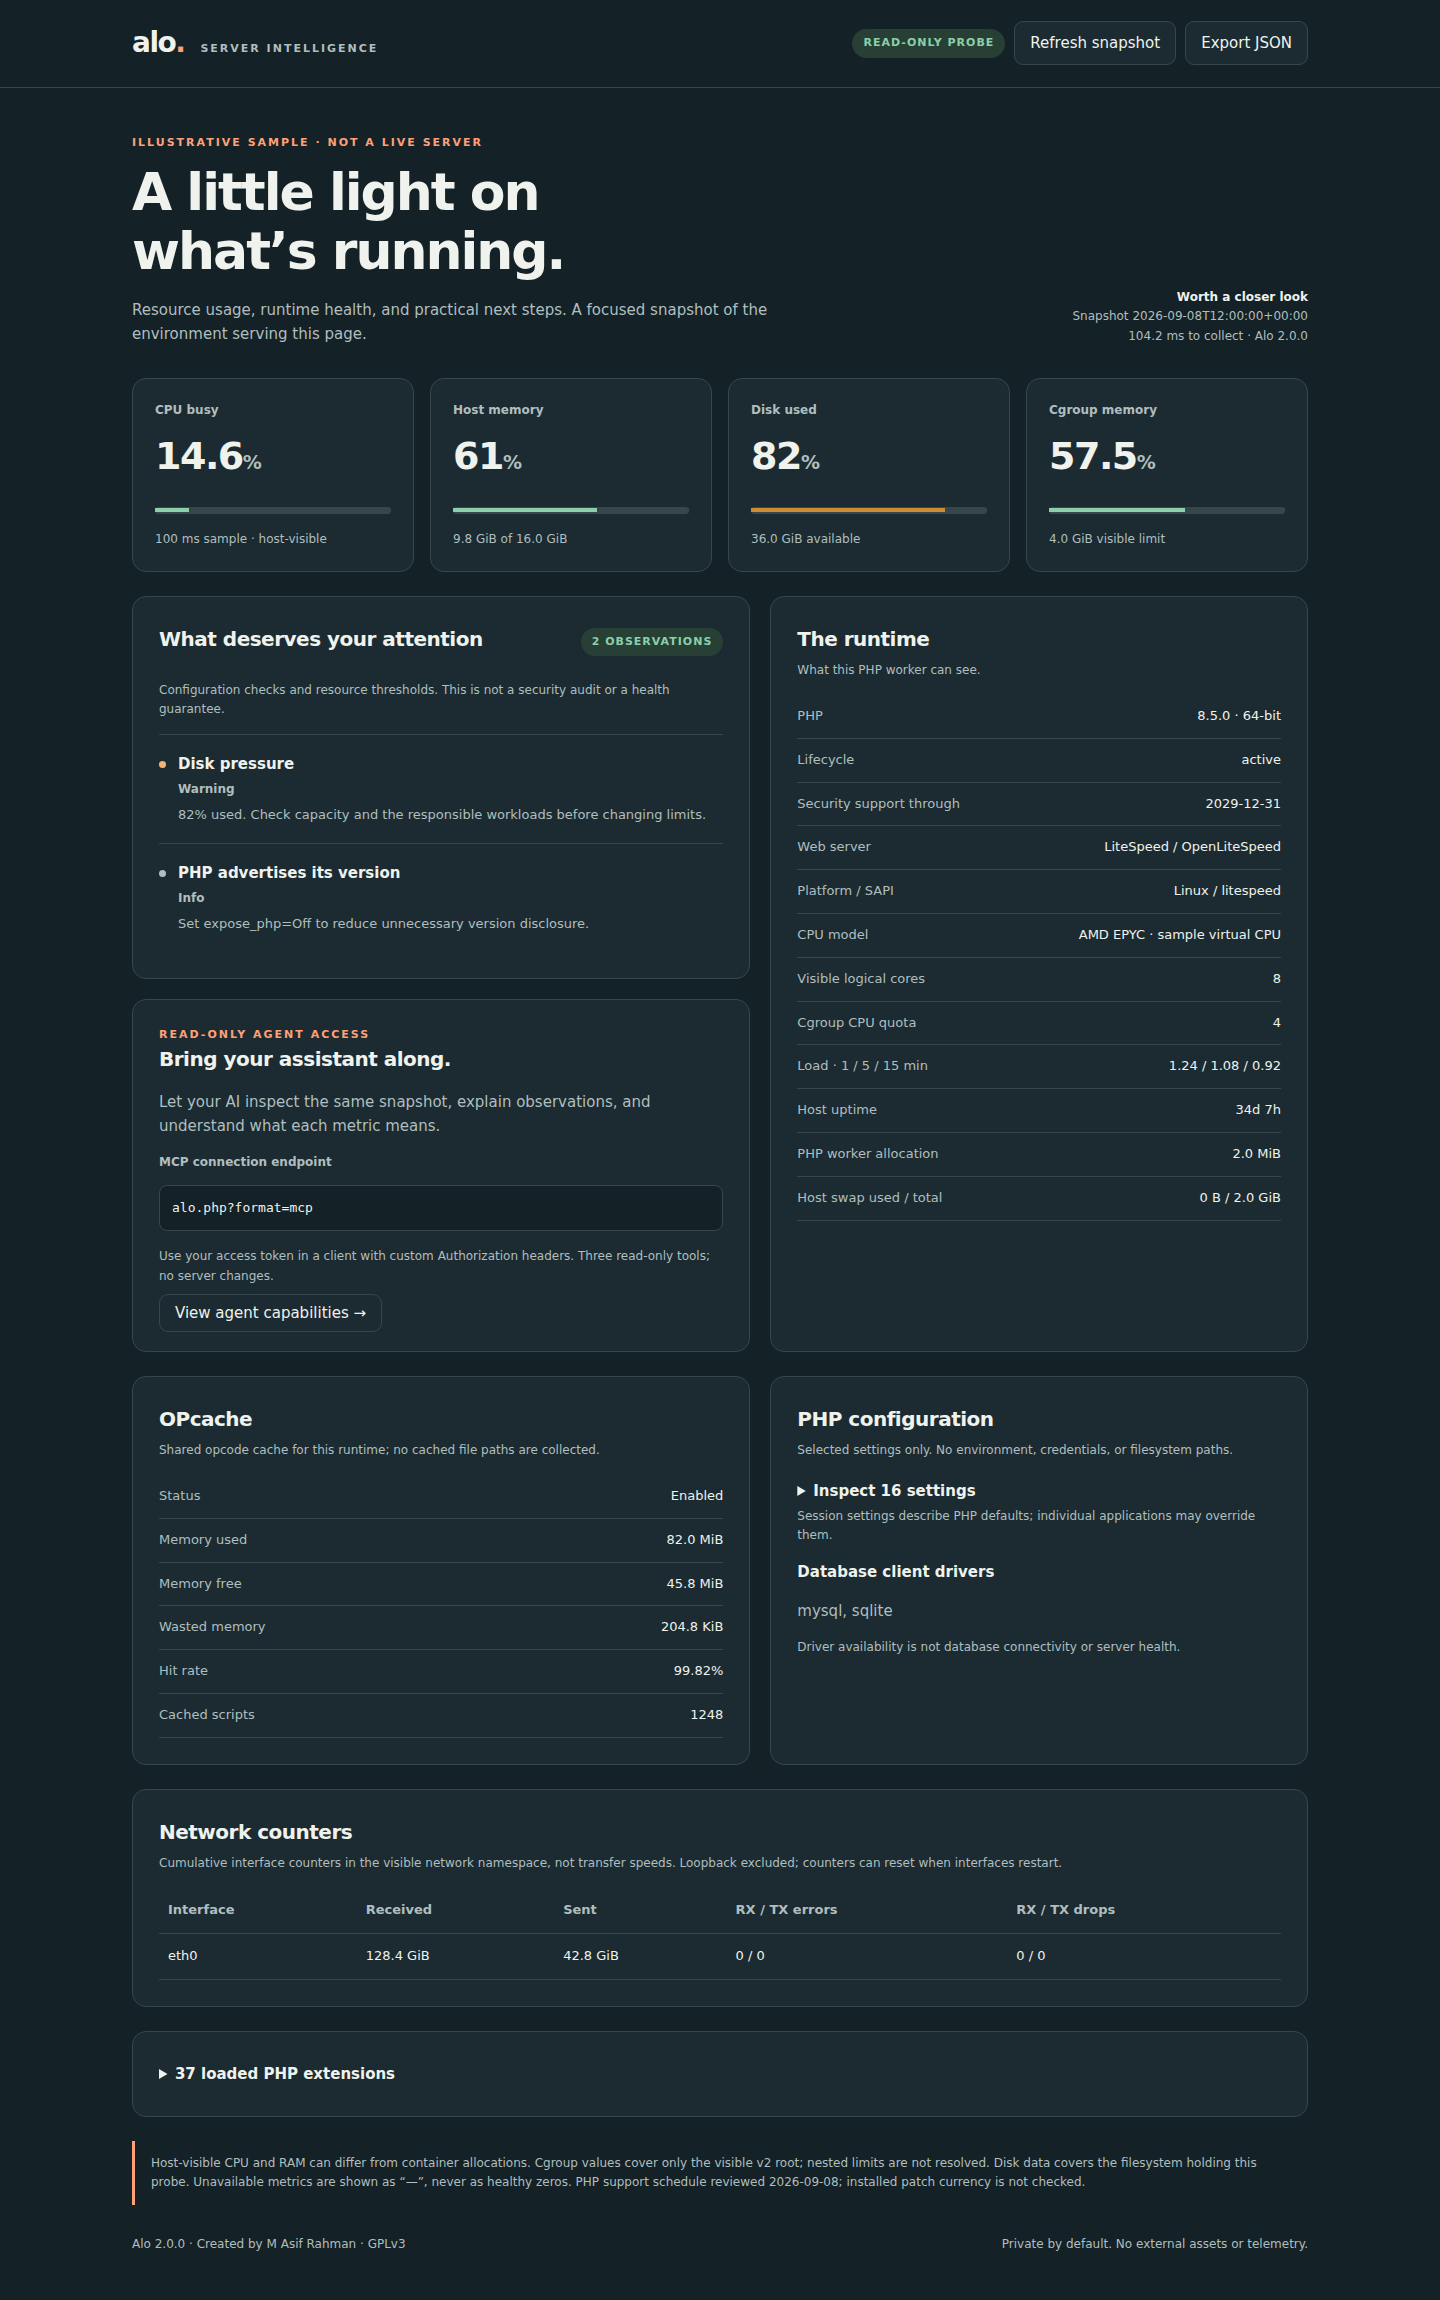
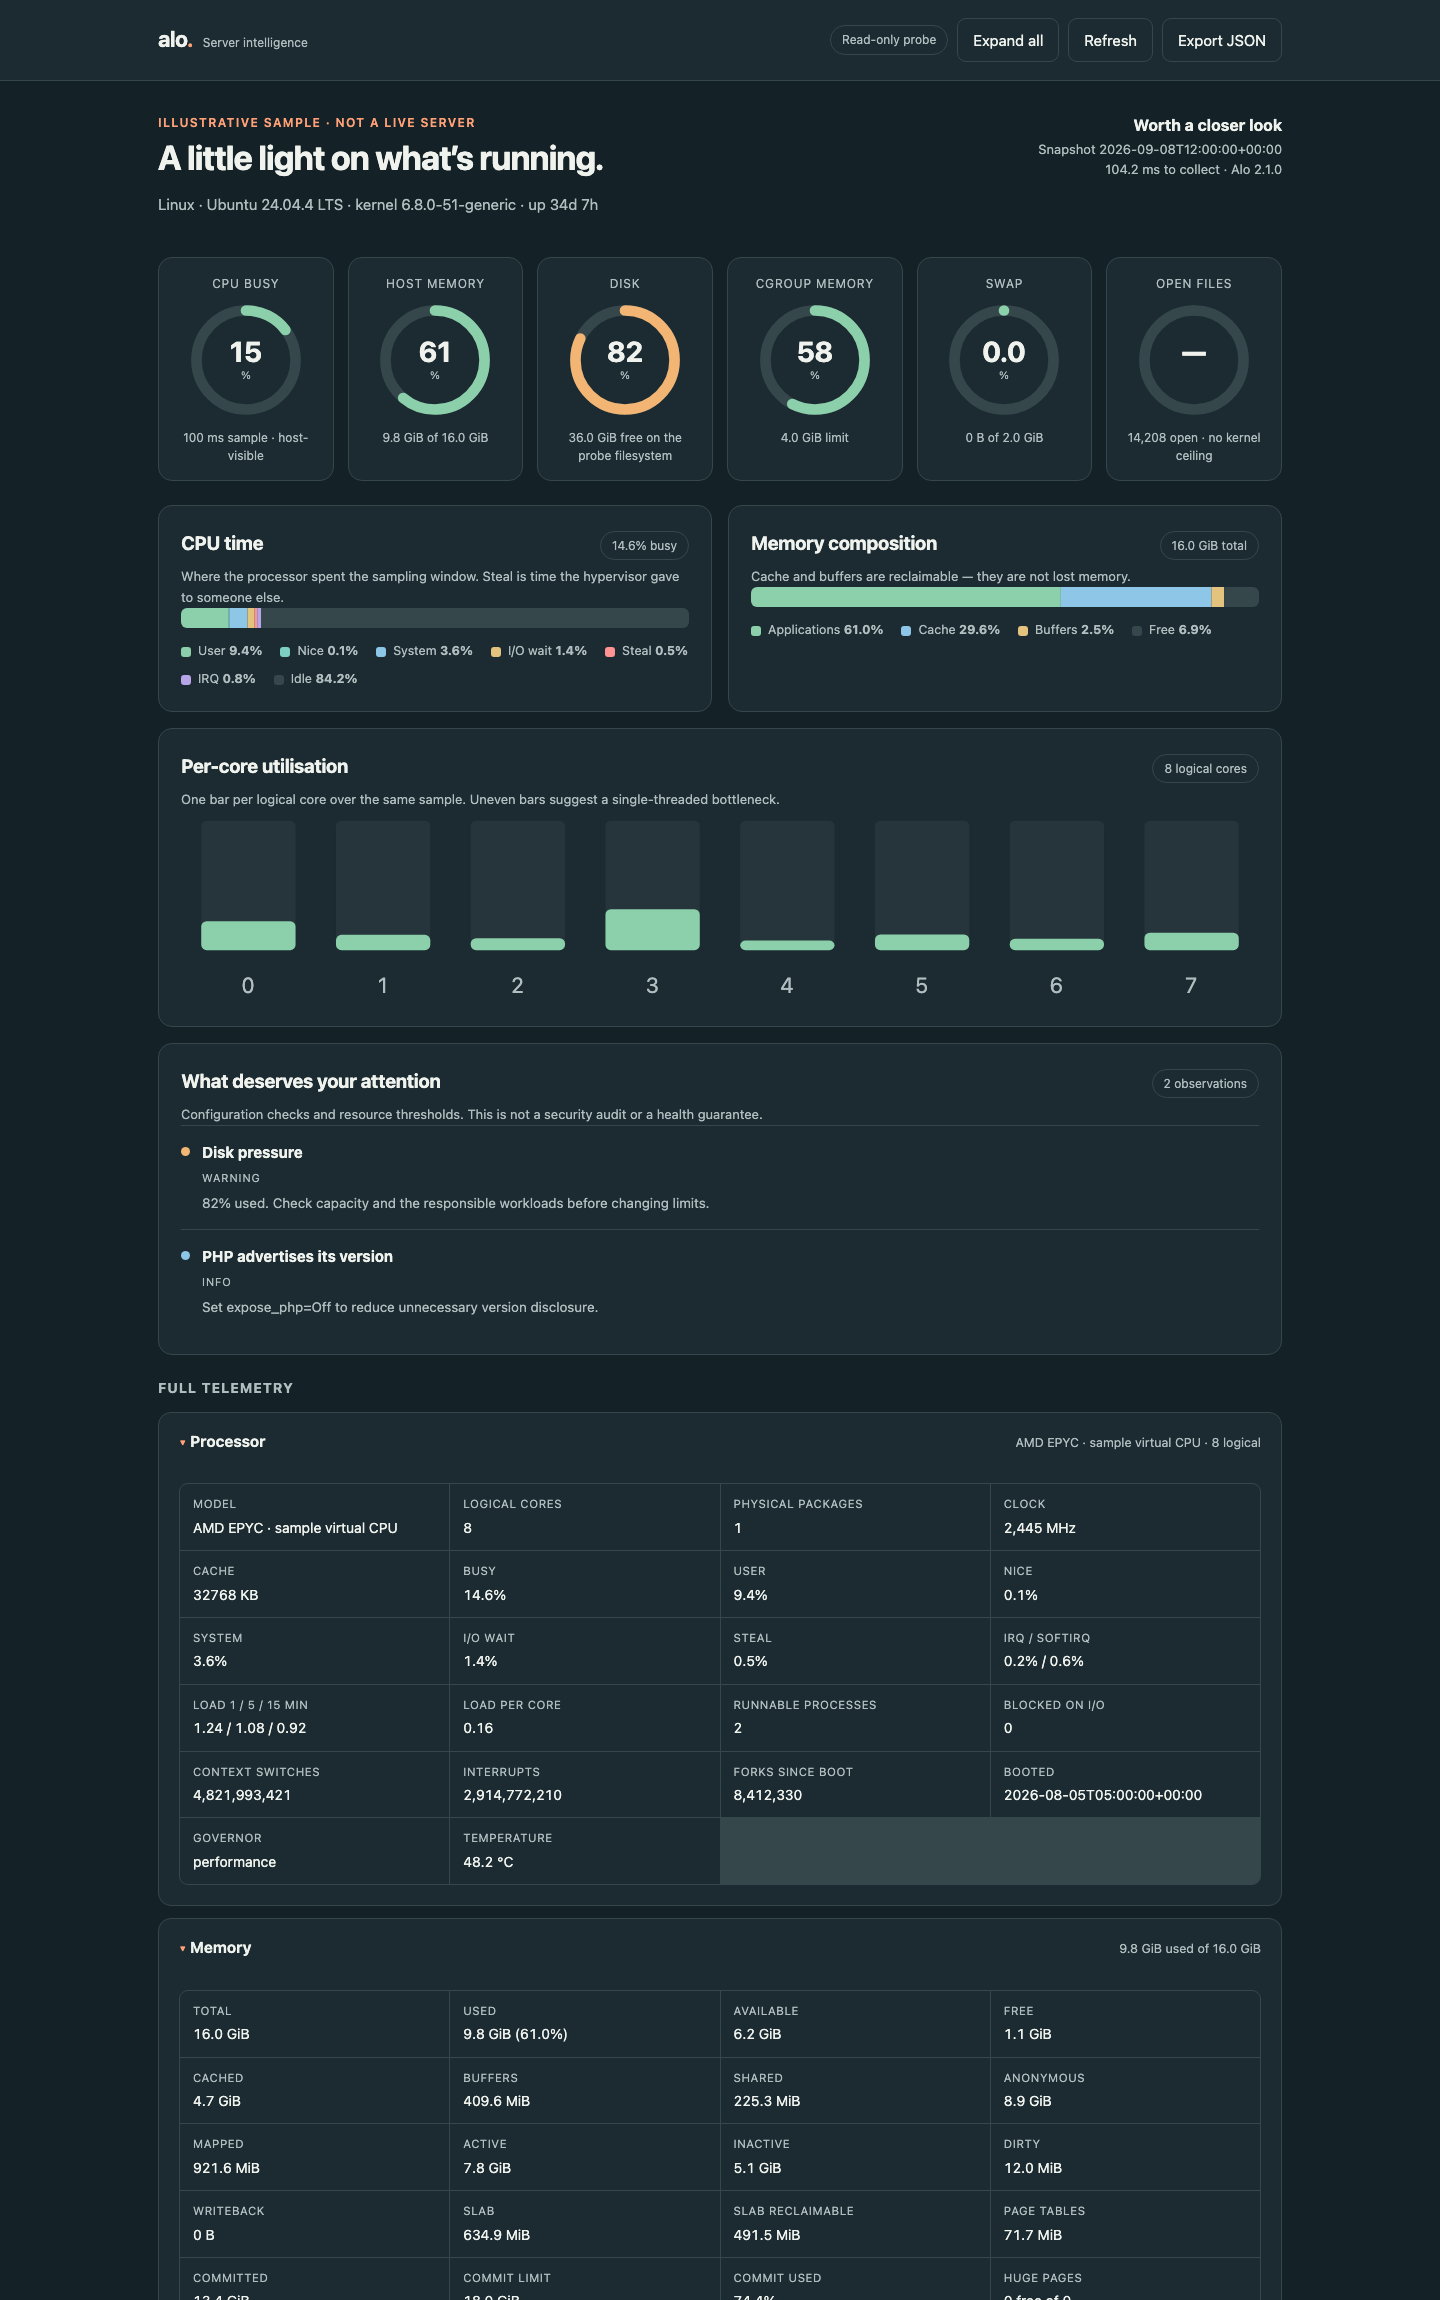
Refresh the screenshots, which still showed Alo 2.0
The README hero, the dark-theme shot, the mobile shot and the site's og:image
were all taken before the 2.1.0 redesign. They showed the old resource cards --
no gauges, no CPU-time breakdown, no per-core chart, no collapsible telemetry --
so the first thing anyone saw was a product that no longer exists.

Regenerated all three from the current fixture. The dark shot is captured by
making the prefers-color-scheme block unconditional, so it is what a dark-mode
visitor actually sees rather than a synthesised palette.

Two things the regeneration exposed:

The fixture still described a bounded descriptor limit, so the gauge read
"0.0%" directly above "no kernel ceiling". Those contradict each other. The
fixture now carries the unbounded state the fd fix introduced, and the gauge
correctly shows a dash.

The site declared the hero image as 1600x1000 while the file has always been
1440x2300. The wrong intrinsic ratio reserves the wrong space and shifts the
layout as the image loads. Corrected.

Alt text on both the README and the site described resource cards that are no
longer there; it now describes the gauges, charts and collapsible sections.

diff --git a/tests/render_fixture.php b/tests/render_fixture.php
@@ -84,7 +84,7 @@ $data['container'] += ['scope' => 'Visible cgroup v2 root.', 'note' => 'Null lim
     'cpu_throttled_usec' => 8820000.0, 'cpu_throttled_percent' => 0.14,
     'pids_current' => 148.0, 'pids_max' => 4096.0];
 $data['kernel'] = ['distribution' => 'Ubuntu 24.04.4 LTS', 'kernel_version' => '6.8.0-51-generic',
-    'open_files' => 14208.0, 'open_files_max' => 9223372036854775807.0, 'open_files_percent' => 0.0,
+    'open_files' => 14208.0, 'open_files_max' => null, 'open_files_limited' => false, 'open_files_percent' => null,
     'cpu_temperature_c' => 48.2, 'cpu_governor' => 'performance', 'entropy_available' => 256.0,
     'sysctl' => ['vm.swappiness' => '60', 'vm.overcommit_memory' => '0', 'vm.dirty_ratio' => '20',
         'kernel.pid_max' => '4194304', 'net.core.somaxconn' => '4096',

diff --git a/readme.md b/readme.md
@@ -14,7 +14,7 @@
 
 [Install](#install-in-one-line) · [What it shows](#what-it-shows) · [AI & MCP](docs/agents.md) · [Server support](docs/hosting.md) · [Security](SECURITY.md) · [Contribute](CONTRIBUTING.md)
 
-![Alo desktop dashboard with resource cards and actionable observations](docs/screenshots/desktop.png)
+![The Alo dashboard: six radial gauges for CPU, memory, disk, cgroup memory, swap and file descriptors, a CPU-time breakdown separating steal and I/O wait, a memory composition bar, per-core utilisation, and collapsible sections of full telemetry](docs/screenshots/desktop.png)
 
 *Actual Alo interface rendered with illustrative sample data. This is not a live server or benchmark.*
 
@@ -128,7 +128,7 @@ carrying several hundred metrics.
 
 ![Alo dark desktop theme](docs/screenshots/desktop-dark.png)
 
-<img src="docs/screenshots/mobile.png" width="390" alt="Alo mobile dashboard showing responsive resource cards and observations">
+<img src="docs/screenshots/mobile.png" width="390" alt="The Alo dashboard on a narrow screen: gauges reflow to two columns, charts and collapsible telemetry sections stack">
 
 *Screenshots use the same illustrative fixture, not production measurements.*
 
